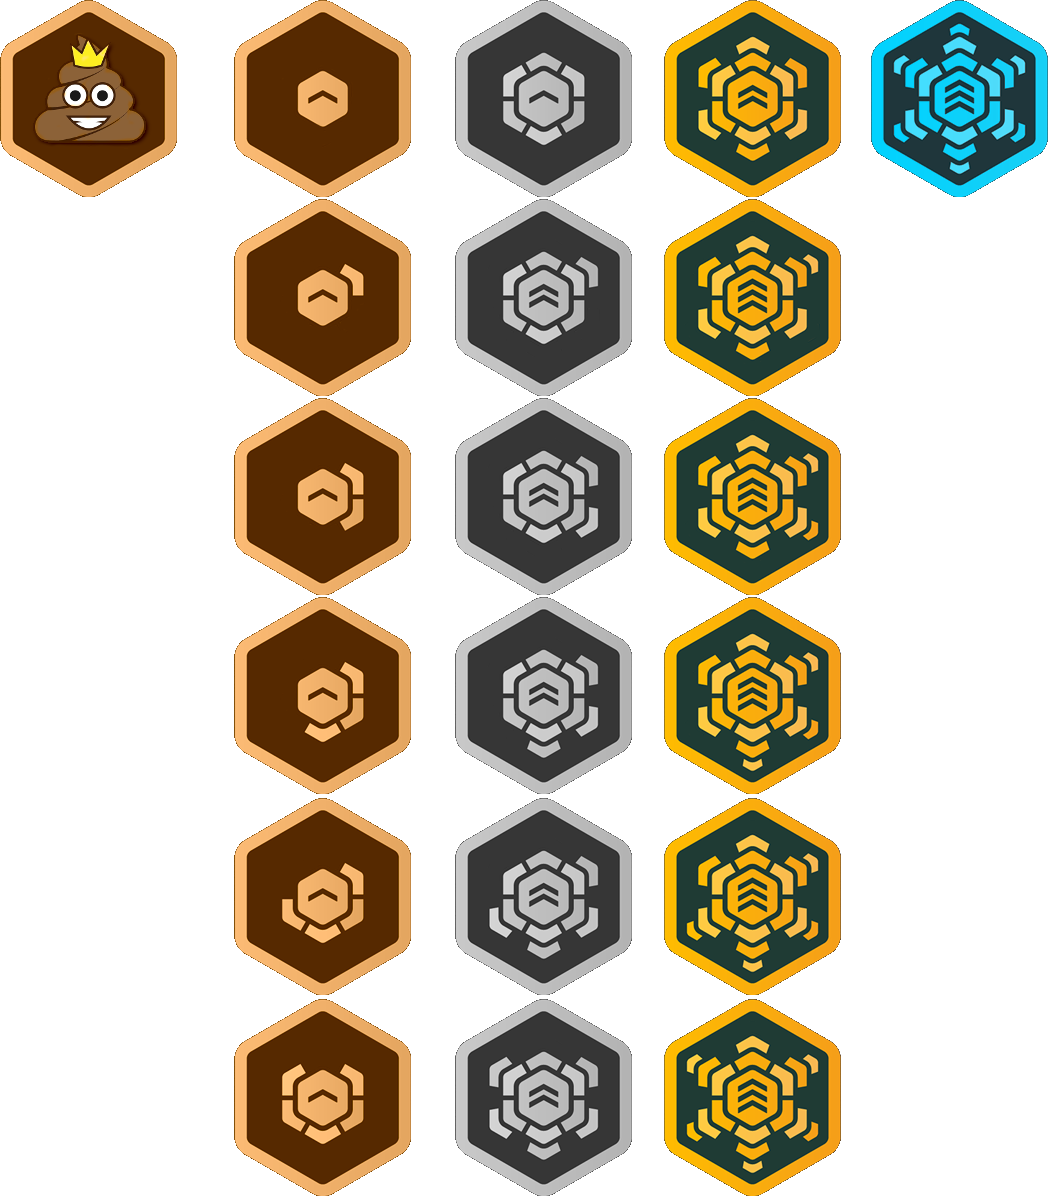
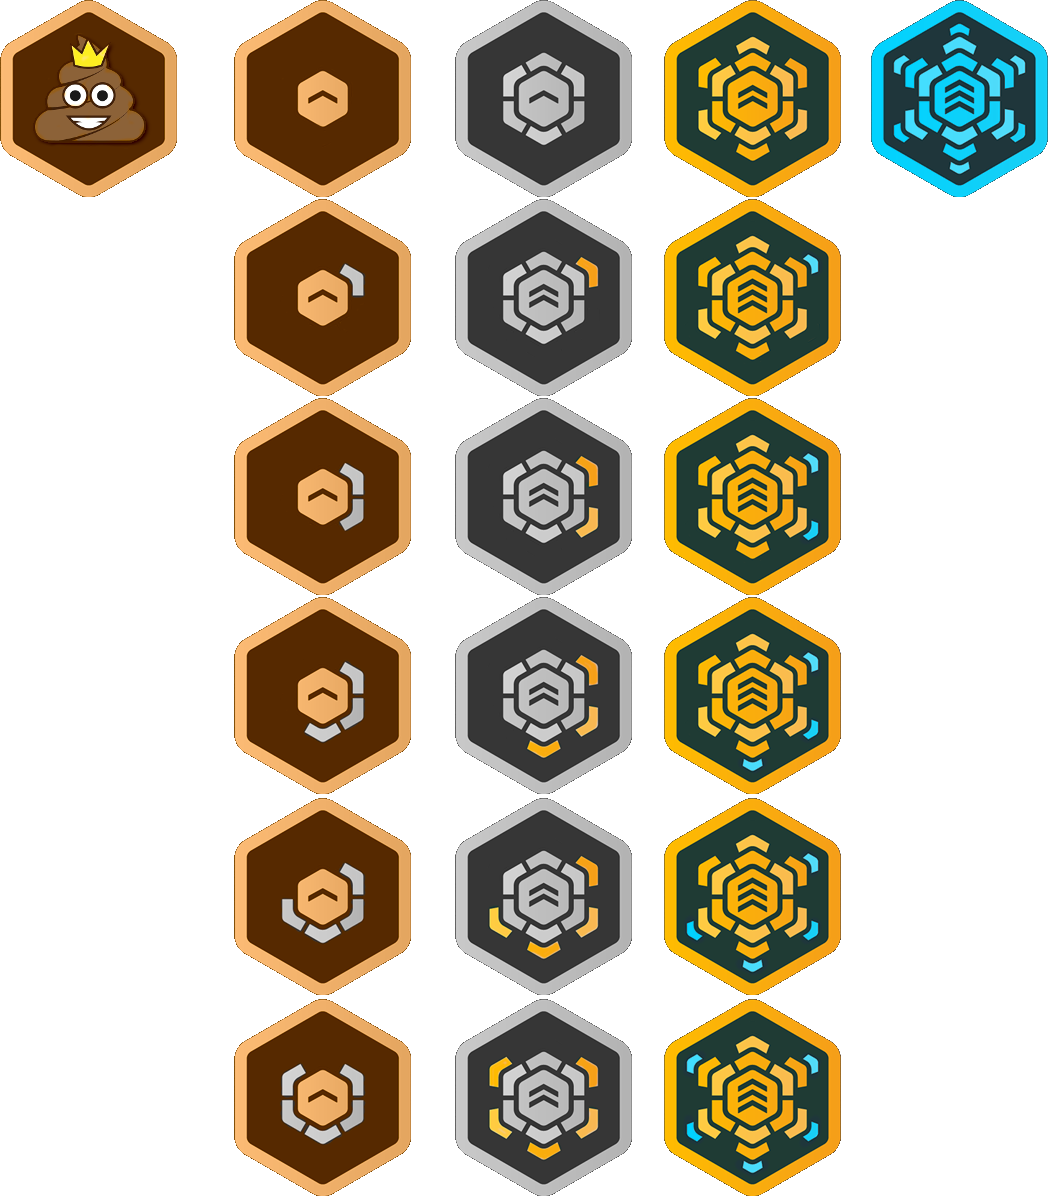
More appealing rank badges

diff --git a/app.html b/app.html
@@ -3,7 +3,7 @@
 	<meta name="viewport" content="width=device-width, initial-scale=1">
 	<meta http-equiv="content-type" content="text/html; charset=utf-8" />
 	<title>TableChamp</title>
-	<link rel="stylesheet" type="text/css" charset="utf-8"  media="screen, projection" href="css/tablechamp.css?v=9" />
+	<link rel="stylesheet" type="text/css" charset="utf-8"  media="screen, projection" href="css/tablechamp.css?v=10" />
 	<link rel="icon" type="image/png" href="css/tramba.png">
 	<link href="https://fonts.googleapis.com/css?family=Libre+Franklin:400,600" rel="stylesheet">
 	<meta name="mobile-web-app-capable" content="yes"> 

diff --git a/css/tablechamp.css b/css/tablechamp.css
@@ -632,7 +632,7 @@ body {
     width: 46px; 
     height: 100%; 
     
-    background: url("rank_badges.png?v=3") no-repeat;
+    background: url("rank_badges.png?v=4") no-repeat;
     background-size: 600% 600%;
     background-position: 0% 0%;
   }
